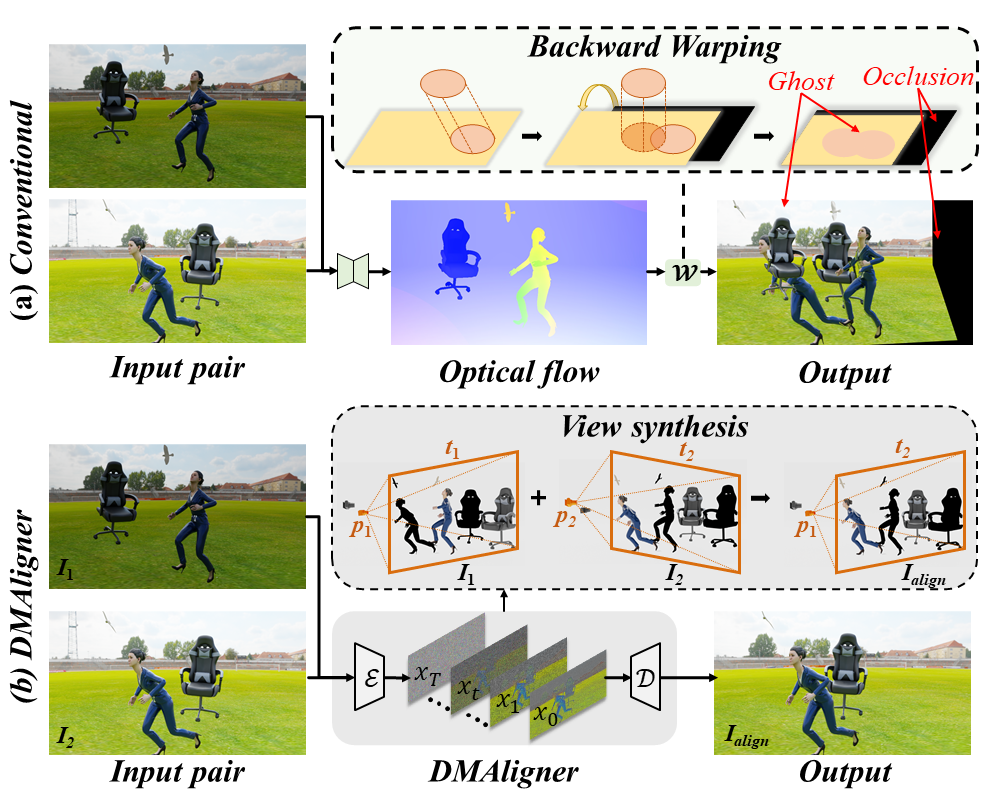
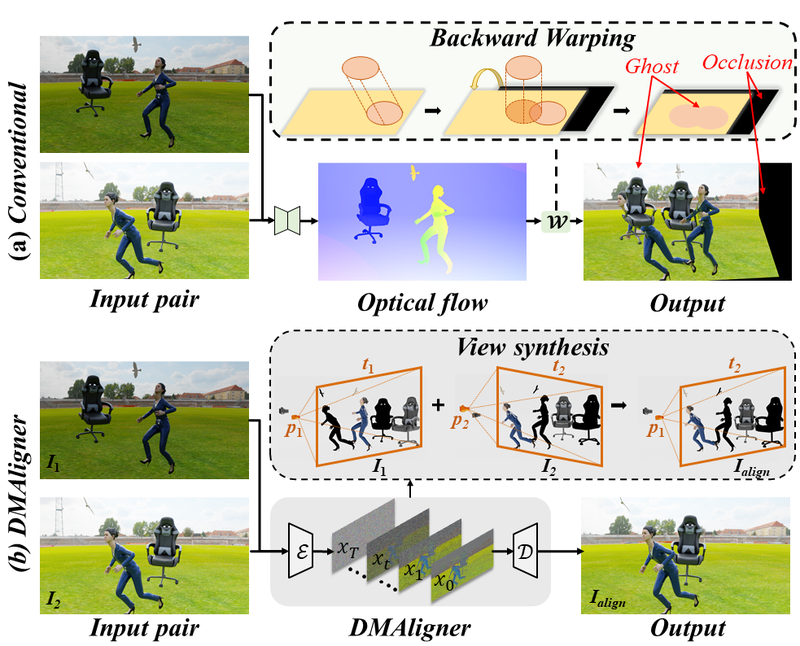
Resize asset images + constrain figure max-width

Changed region(s): [[0.8125, 0.0929, 0.8438, 0.1238]]

diff --git a/index.html b/index.html
@@ -58,7 +58,7 @@
 
         /* Teaser */
         .figure { text-align: center; margin: 24px 0; }
-        .figure img { max-width: 100%; border-radius: 12px; box-shadow: var(--shadow); }
+        .figure img { max-width: 85%; border-radius: 12px; box-shadow: var(--shadow); }
         .figure .caption { margin-top: 10px; font-size: 0.9em; color: var(--gray); }
 
         /* Two-column comparison */